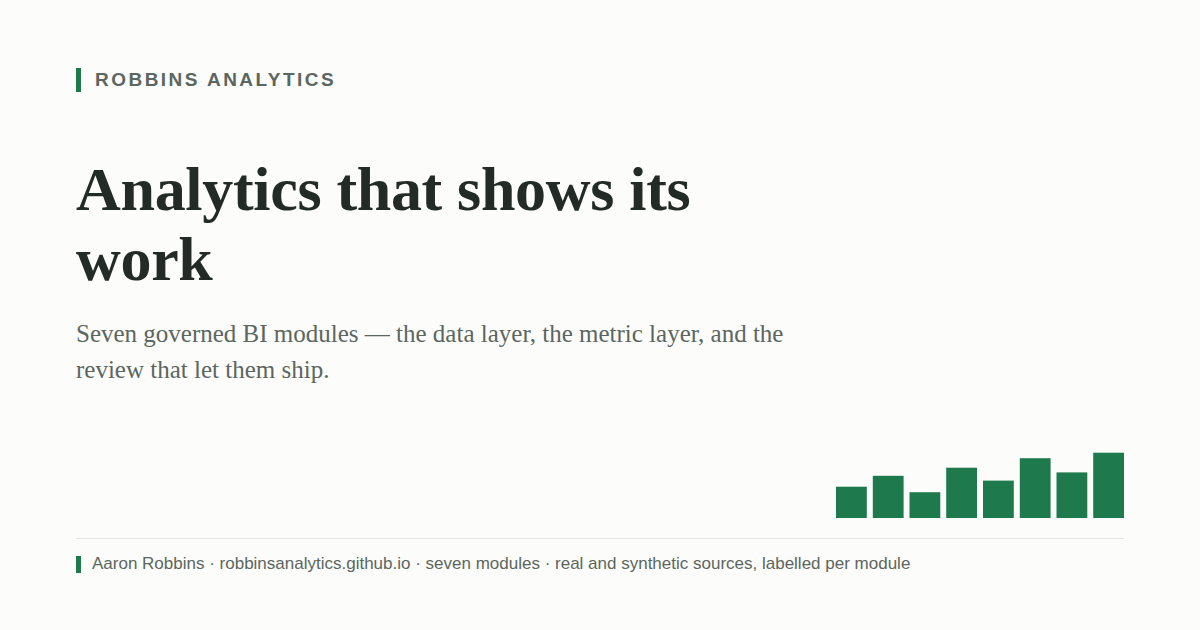
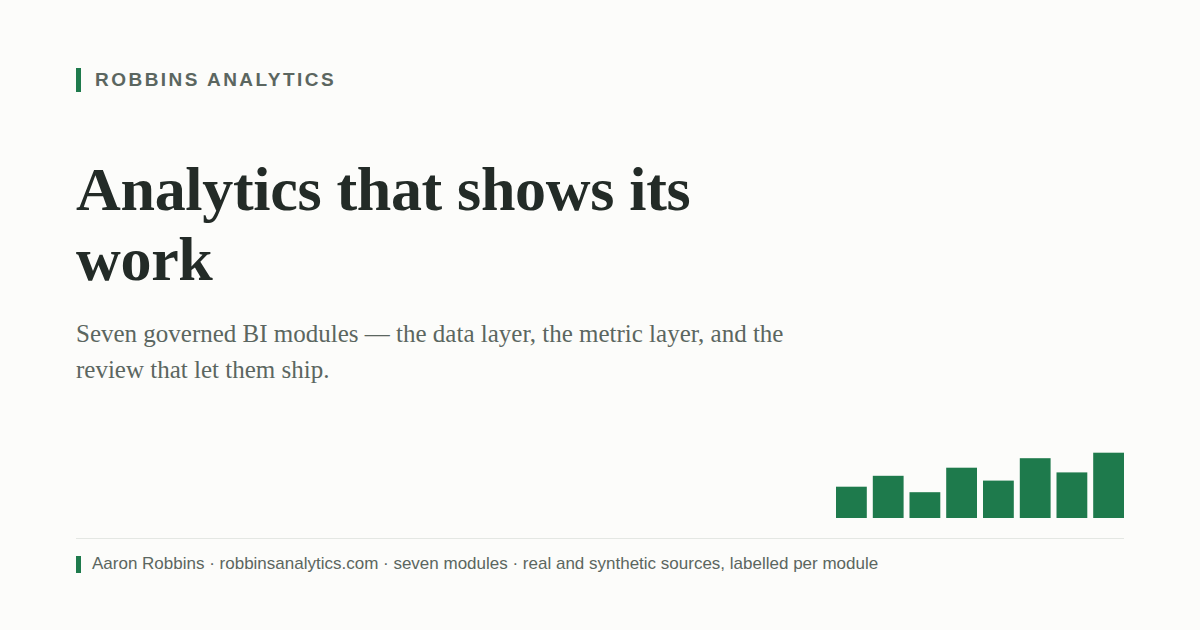
Migrate to www.robbinsanalytics.com; CNAME survives gh-pages rebuild

Changed region(s): [[0.2775, 0.8746, 0.7708, 0.9048]]

diff --git a/README.md b/README.md
@@ -2,7 +2,7 @@
 
 Aaron Robbins — Business Intelligence & Analytics portfolio site.
 
-**Live URL:** <https://robbinsanalytics.github.io>
+**Live URL:** <https://www.robbinsanalytics.com>
 
 Built with [Quarto](https://quarto.org/) and published to GitHub Pages.
 
